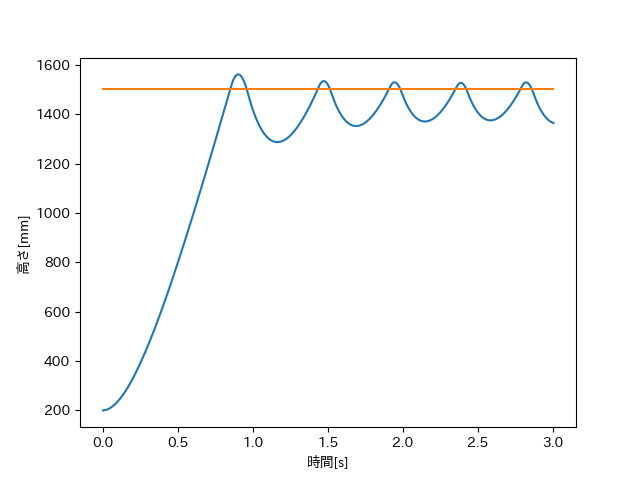
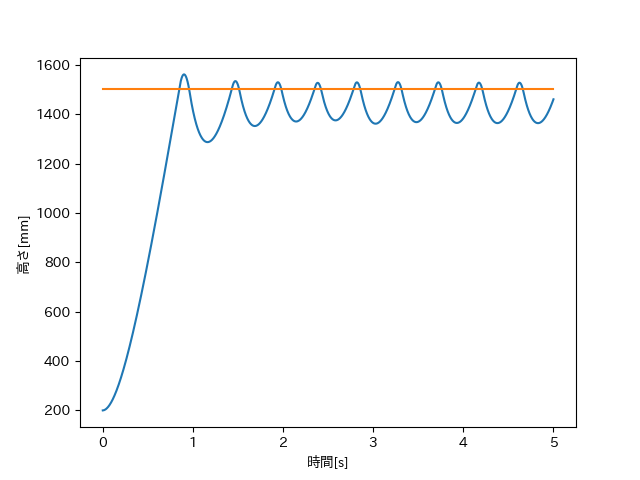
BangBangのsimを追加

diff --git a/drone/main.py b/drone/main.py
@@ -168,7 +168,7 @@ def picture():
     drone = Drone(lambda x,v,t:0.)
     drone.take_picture("world.png")
 
-is_sim = False
+is_sim = True
 
 def pid():
     # pid制御
